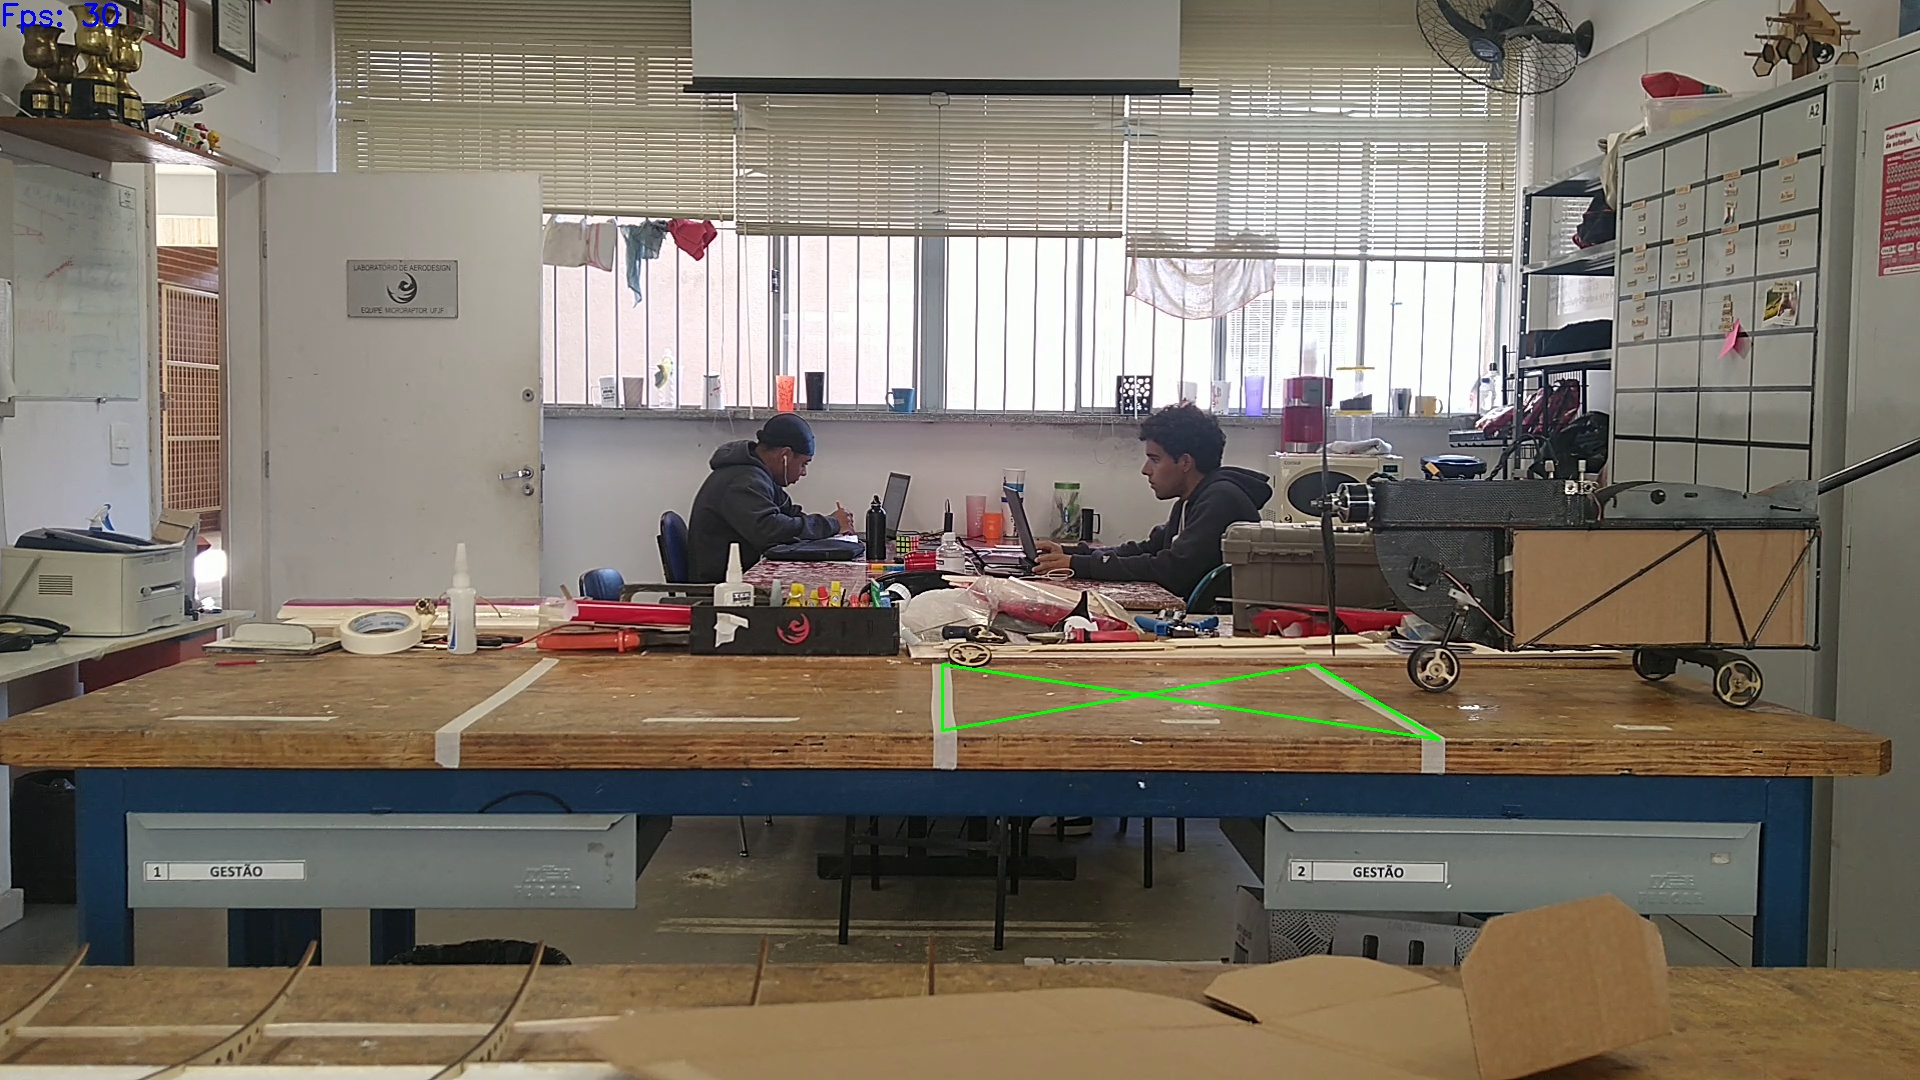
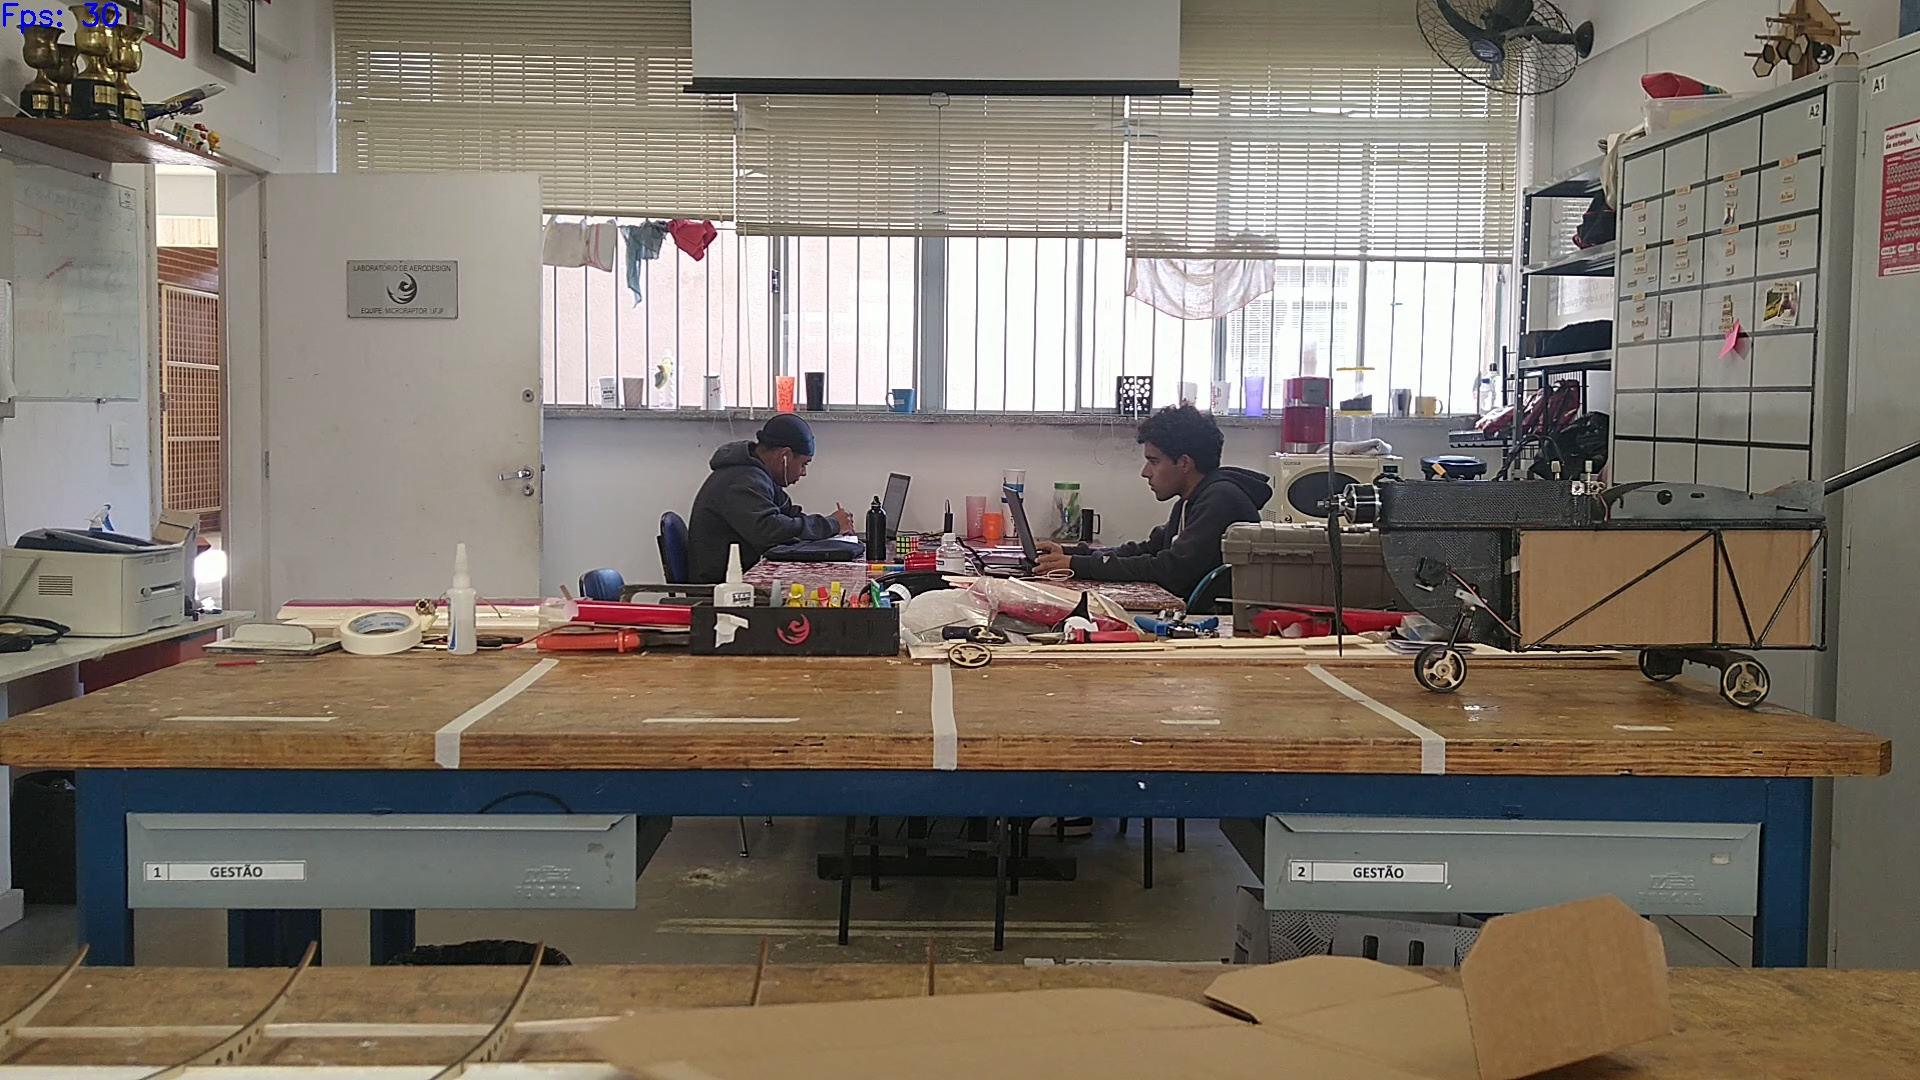
Implementando radar

diff --git a/tracker.py b/tracker.py
@@ -1,5 +1,7 @@
 import cv2
-from funcoes_auxiliares import funcoes
+import funcoes_auxiliares.funcs_draw as funcs_draw
+import funcoes_auxiliares.funcs_manip_arq as funcs_manip_arq
+import funcoes_auxiliares.funcs_velocidade as funcs_velocidade
 
 # Lista de trackers disponíveis
 trackers = {
@@ -13,7 +15,7 @@ trackers = {
 }
 
 # Limpa a pasta de frames
-funcoes.limpa_pasta()
+funcs_manip_arq.limpa_pastas()
 
 # Tracker escolhido
 tracker_key = 'csrt'
@@ -43,17 +45,10 @@ while True:
     if frame is None:
         break
     
-    # Se leu o frame, já desenho as áreas nele
-    funcoes.desenha_Area(frame, area1, (0,255,0))
-    #funcoes.desenha_Area(frame, area2, (128, 0, 128))
-    
     # Salva o primeiro frame
     if cont==0:
-        funcoes.salvaFrame(frame, "./frames/Primeiro_Frame.jpg")
+       funcs_manip_arq.salvaFrame(frame, "./frames/Primeiro_Frame.jpg")
     
-    # Redimensiono o frame
-    #frame = cv2.resize(frame,(1220,720))
-
     # Checa se a região de interesse foi definida
     if roi is not None:
         # Atualiza o frame a ser pego pelo tracker
@@ -63,27 +58,24 @@ while True:
             # x -> cood x do canto superior direito, w -> largura da roi
             # y -> cood y do canto superior direito, h -> altura da roi
             x,y,w,h = [int(c) for c in box]
-            # Desenha
-            cx, cy = funcoes.calc_centro_roi(x,w,y,h)
+            # Calcula velocidade
+            if cont>1:
+                funcs_velocidade.calc_velocidades(frame, x,y,w,h, cx, cy, tempo0, cont)
+            
+            cx, cy = funcs_draw.calc_centro_roi(x,w,y,h)
+            tempo0 = cv2.getTickCount()
             coordenadas_centro_x.append(cx); coordenadas_centro_y.append(cy)
-            funcoes.desenha_roi(frame, x,w,y,h)
-            funcoes.desenha_centro(frame, x,w,y,h)
-            # Checa se entrou em alguma área
-            for area in [area1]:
-                contArea = 1
-                entrou = funcoes.entrou_na_area(area, x,w,y,h) 
-                if entrou:
-                    funcoes.salvaFrame(frame, "./frames/frames_na_area/"+str(contArea)+"_"+str(cont)+".jpg")
-                    break
-                    
+            funcs_draw.desenha_roi(frame, x,w,y,h)
+            funcs_draw.desenha_centro(frame, cx, cy)
+                 
         # Caso não consiga atualizar
         else:
-            funcoes.escreve_no_video(frame, "PERDEU DE VISTA", (0,50), (0,0,255))
+            funcs_draw.escreve_no_video(frame, "PERDEU DE VISTA", (0,50), (0,0,255))
             roi = None
             tracker = trackers[tracker_key]()
     
     # Escreve o fps na tela
-    funcoes.escreve_no_video(frame, "Fps: "+str(round(video.get(cv2.CAP_PROP_FPS))),(0,25), (255,0,0))
+    funcs_draw.escreve_no_video(frame, "Fps: "+str(round(video.get(cv2.CAP_PROP_FPS))),(0,25), (255,0,0))
     
     # Mostra a janela com o vídeo executando 
     cv2.imshow('Rastreando',frame)
@@ -91,14 +83,20 @@ while True:
     # Fica no aguardo do usuáqrio digitar algo
     k = cv2.waitKey(30)
     
+    # Garanto que a roi é sempre selecionada logo no primeiro frame
+    if cont==0:
+        k = 's'
+    
     # Digita-se s para pausar o video e se selecionar a região de interesse, roi
-    if k == ord('s'):
+    if k == ord('s') or k=='s':
         # Chama a função para permitir que a roi seja selecionada
         roi = cv2.selectROI('Rastreando',frame)
         # Inicializa o tracker no frame no qual se selecionou a roi
         tracker.init(frame,roi)
         # Salvo o frame no qual selecionei a roi
-        funcoes.salvaFrame(frame, "./frames/Frame_da_Roi.jpg")
+        funcs_manip_arq.salvaFrame(frame, "./frames/Frame_da_Roi.jpg")
+        # Reseto o k
+        k="g"
     # Fecha o vídeo
     elif k == ord('q'):
         break

diff --git a/funcoes_auxiliares/funcoes.py b/funcoes_auxiliares/funcoes.py
@@ -2,6 +2,8 @@ import cv2
 import numpy as np
 import os
 
+fatConvPxM = 0.0010612691466083
+
 def desenha_roi(frame, x, w, y, h):
     cv2.rectangle(frame,(x, y), (x+w, y+h), (255,0,0),2)
 
@@ -10,8 +12,7 @@ def calc_centro_roi(x, w, y, h):
     cy = int(y+h/2)
     return [cx, cy]
 
-def desenha_centro(frame, x, w, y, h):
-    cx, cy = calc_centro_roi(x,w,y,h)
+def desenha_centro(frame, cx, cy):
     cv2.circle(frame, (cx,cy), 5, (0,0,255),-1)
 
 def salvaFrame(frame, caminho):
@@ -30,7 +31,7 @@ def escreve_no_video(frame, texto, posicao, cor):
     # Efetivamente escreve no vídeo
     cv2.VideoWriter()
     cv2.putText(frame, texto,posicao, fonte, tamanho, cor, grossura)
-    
+
 def entrou_na_area(area, x,w,y,h):
     cx, cy = calc_centro_roi(x,w,y,h)
     # Lista de coordenadas x e lista de coordenadas y
@@ -52,10 +53,47 @@ def entrou_na_area(area, x,w,y,h):
     #if((cx>=menorX and cx<=maiorX)): 
         return True
 
-    return False   
+    return False
+   
+def get_resolucao(frame):
+    return [frame.shape[0], frame.shape[1]]
 
-def limpa_pasta():
+def salva_velocidade(velocidade, cont):
+    if cont==0:
+        with open('./log/velocidade_percorrida_em_cada_frame.txt', 'w') as arquivo:
+                arquivo.write(str(velocidade))
+                arquivo.write('\n')
+    else:
+        with open('./log/velocidade_percorrida_em_cada_frame.txt', 'a') as arquivo:
+            arquivo.write(str(velocidade))
+            arquivo.write('\n')
+
+def salva_dist_percorrida(dist, cont):
+    if cont==0:
+        with open('./log/distancia_percorrida_em_cada_frame.txt', 'w') as arquivo:
+                arquivo.write(str(dist))
+                arquivo.write('\n')
+    else:
+        with open('./log/distancia_percorrida_em_cada_frame.txt', 'a') as arquivo:
+            arquivo.write(str(dist))
+            arquivo.write('\n')
+            
+def calc_velocidades(frame, x,y,w,h, cxant, cyant, tempo0, cont):
+    cx, cy = calc_centro_roi(x,y,w,h)
+    largurara, altura = get_resolucao(frame)
+    tempo1 = cv2.getTickCount()
+    deltaT = (tempo1 - tempo0)/cv2.getTickFrequency()
+    distancia_percorrida = (cx-cxant)*fatConvPxM
+    velocidade = distancia_percorrida/deltaT
+    salva_velocidade(velocidade, cont)
+    salva_dist_percorrida(distancia_percorrida, cont)
+    
+def limpa_pastas():
+    # Limpa pasta de imagens
     dir = './frames/frames_na_area/'
     for arquivo in os.listdir(dir):
         os.remove(os.path.join(dir, arquivo))
-     
+    # Limpa pastas de logs
+    dir = './log/'
+    for arquivo in os.listdir(dir):
+        os.remove(os.path.join(dir, arquivo))
